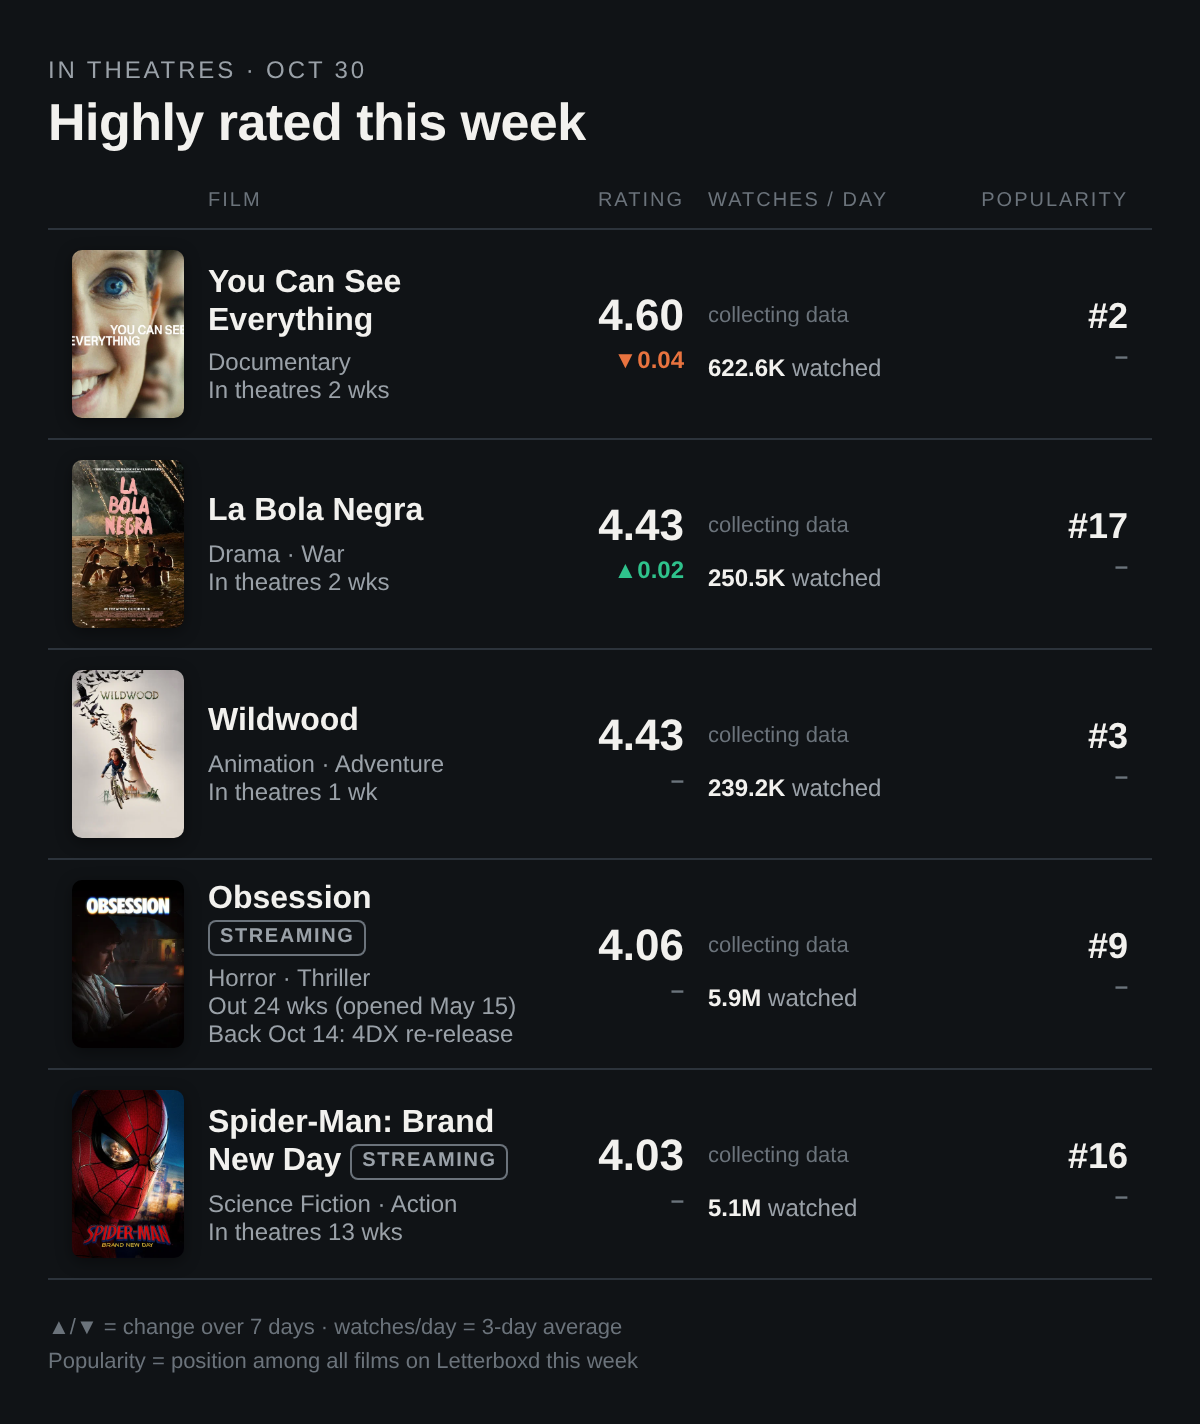
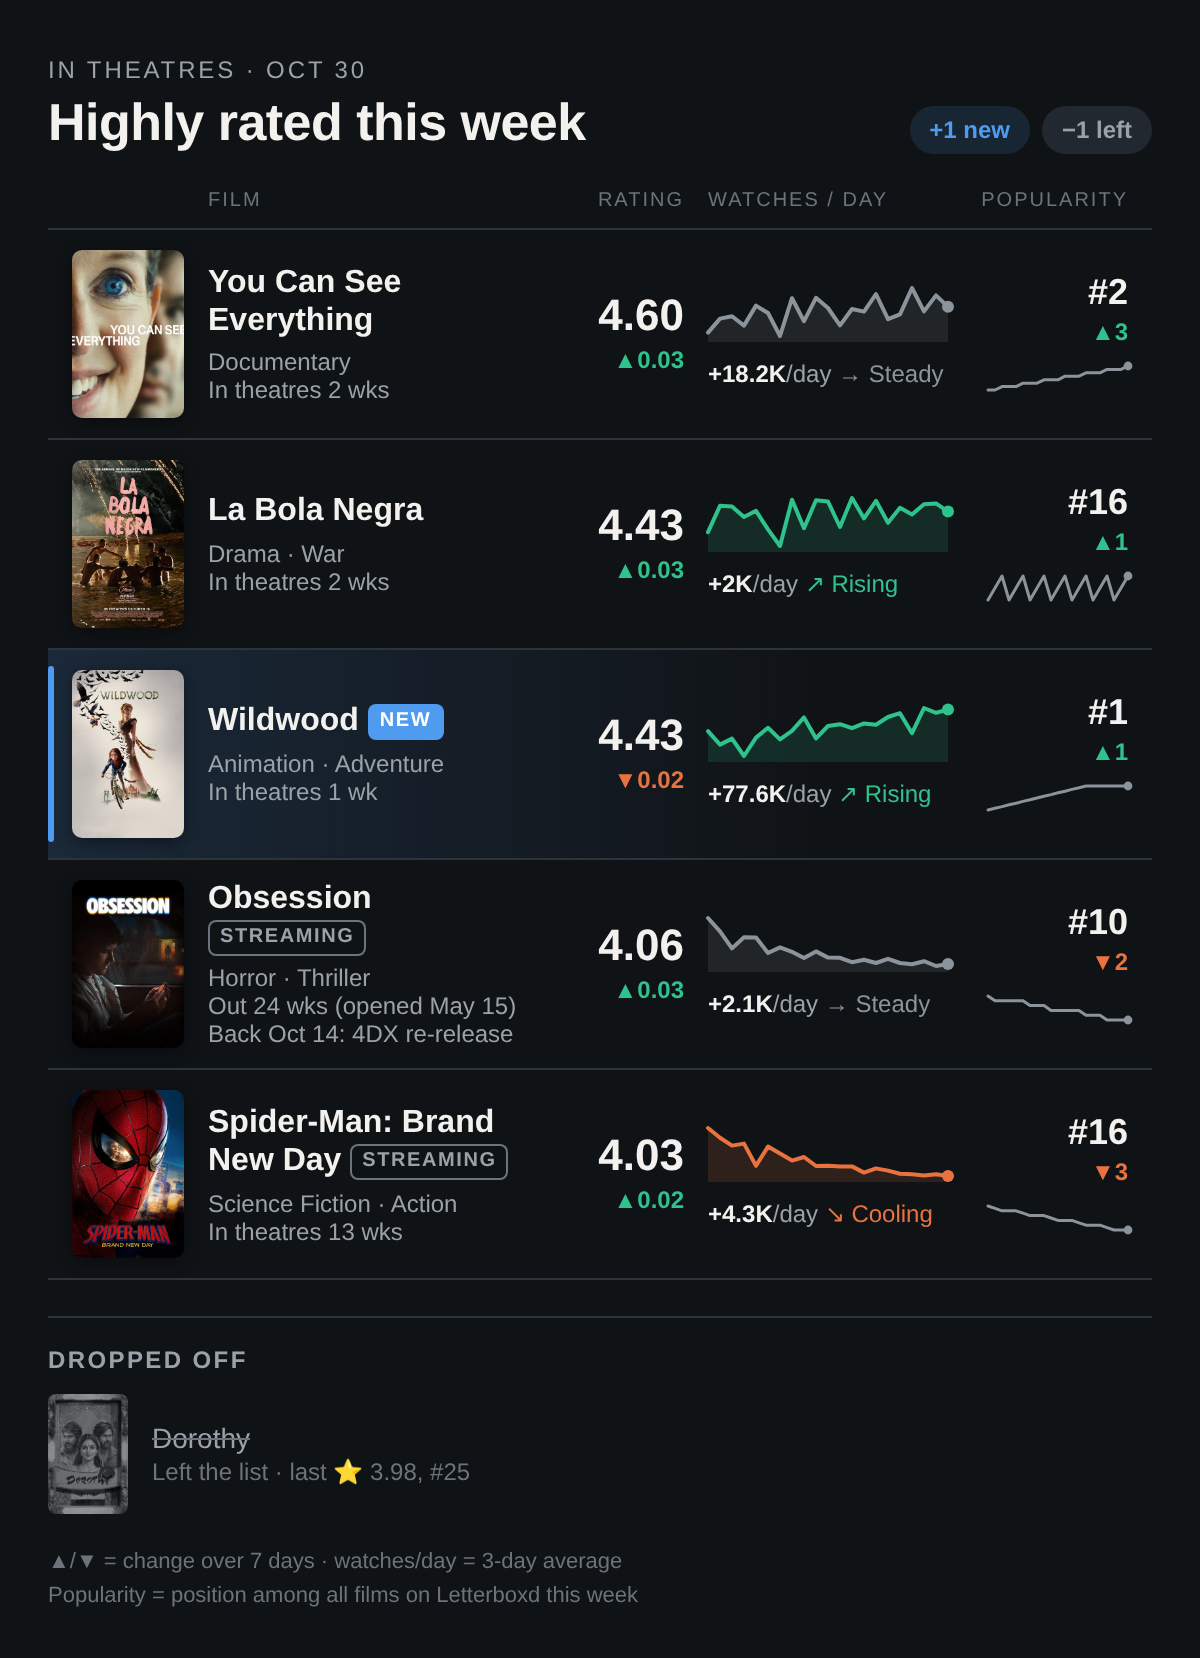
Use a sample-data digest as the README example

diff --git a/docs/digest.md b/docs/digest.md
@@ -4,11 +4,13 @@ Each notification is a single image (`logs/digest.png`), sent as a Telegram phot
 
 ![Example digest](../assets/example-digest.png)
 
+*Rendered with sample trend data so every element is visible.*
+
 The image is a leaderboard with one row per matching film:
 
 - **Poster, title, genres**, and how long the film has been in theatres (or when it opens).
 - **Rating**, with its change over the past 7 days.
-- **Watches / day**: a 21-day sparkline of new Letterboxd watches per day, the recent 3-day average, and a momentum label (rising, steady or cooling, from comparing the last 3 days with the 3 before). Until there are two days of data this column shows "collecting data" and the lifetime watch count, as in the example above.
+- **Watches / day**: a 21-day sparkline of new Letterboxd watches per day, the recent 3-day average, and a momentum label (rising, steady or cooling, from comparing the last 3 days with the 3 before). Until there are two days of data this column shows "collecting data" and the lifetime watch count instead.
 - **Popularity**: the film's position among all films on Letterboxd's popular-this-week list, its 7-day change, and a 21-day sparkline.
 
 Films that just joined the list are highlighted with a NEW tag. Films that left appear greyed out under "Dropped off". If the image cannot be rendered (for example, Chromium is missing), the run sends a text digest instead of failing. Other Apprise targets get the text digest with the image attached.

diff --git a/README.md b/README.md
@@ -13,6 +13,7 @@ Letterboxd's popular list mixes new releases with classics and stuff that's been
 A daily check, and a message whenever a film joins or leaves the list (plus a weekly roundup on Fridays):
 
 <p align="center"><img src="assets/example-digest.png" alt="Example digest: a leaderboard of highly rated films in theatres" width="520"></p>
+<p align="center"><sub>Example digest rendered with sample trend data.</sub></p>
 
 Each film shows its rating and how it's trending, how many people are watching it each day, its spot on Letterboxd's popular list, and how long it's been in theatres. New arrivals get a **NEW** tag and films already out on digital get a **STREAMING** tag.
 
